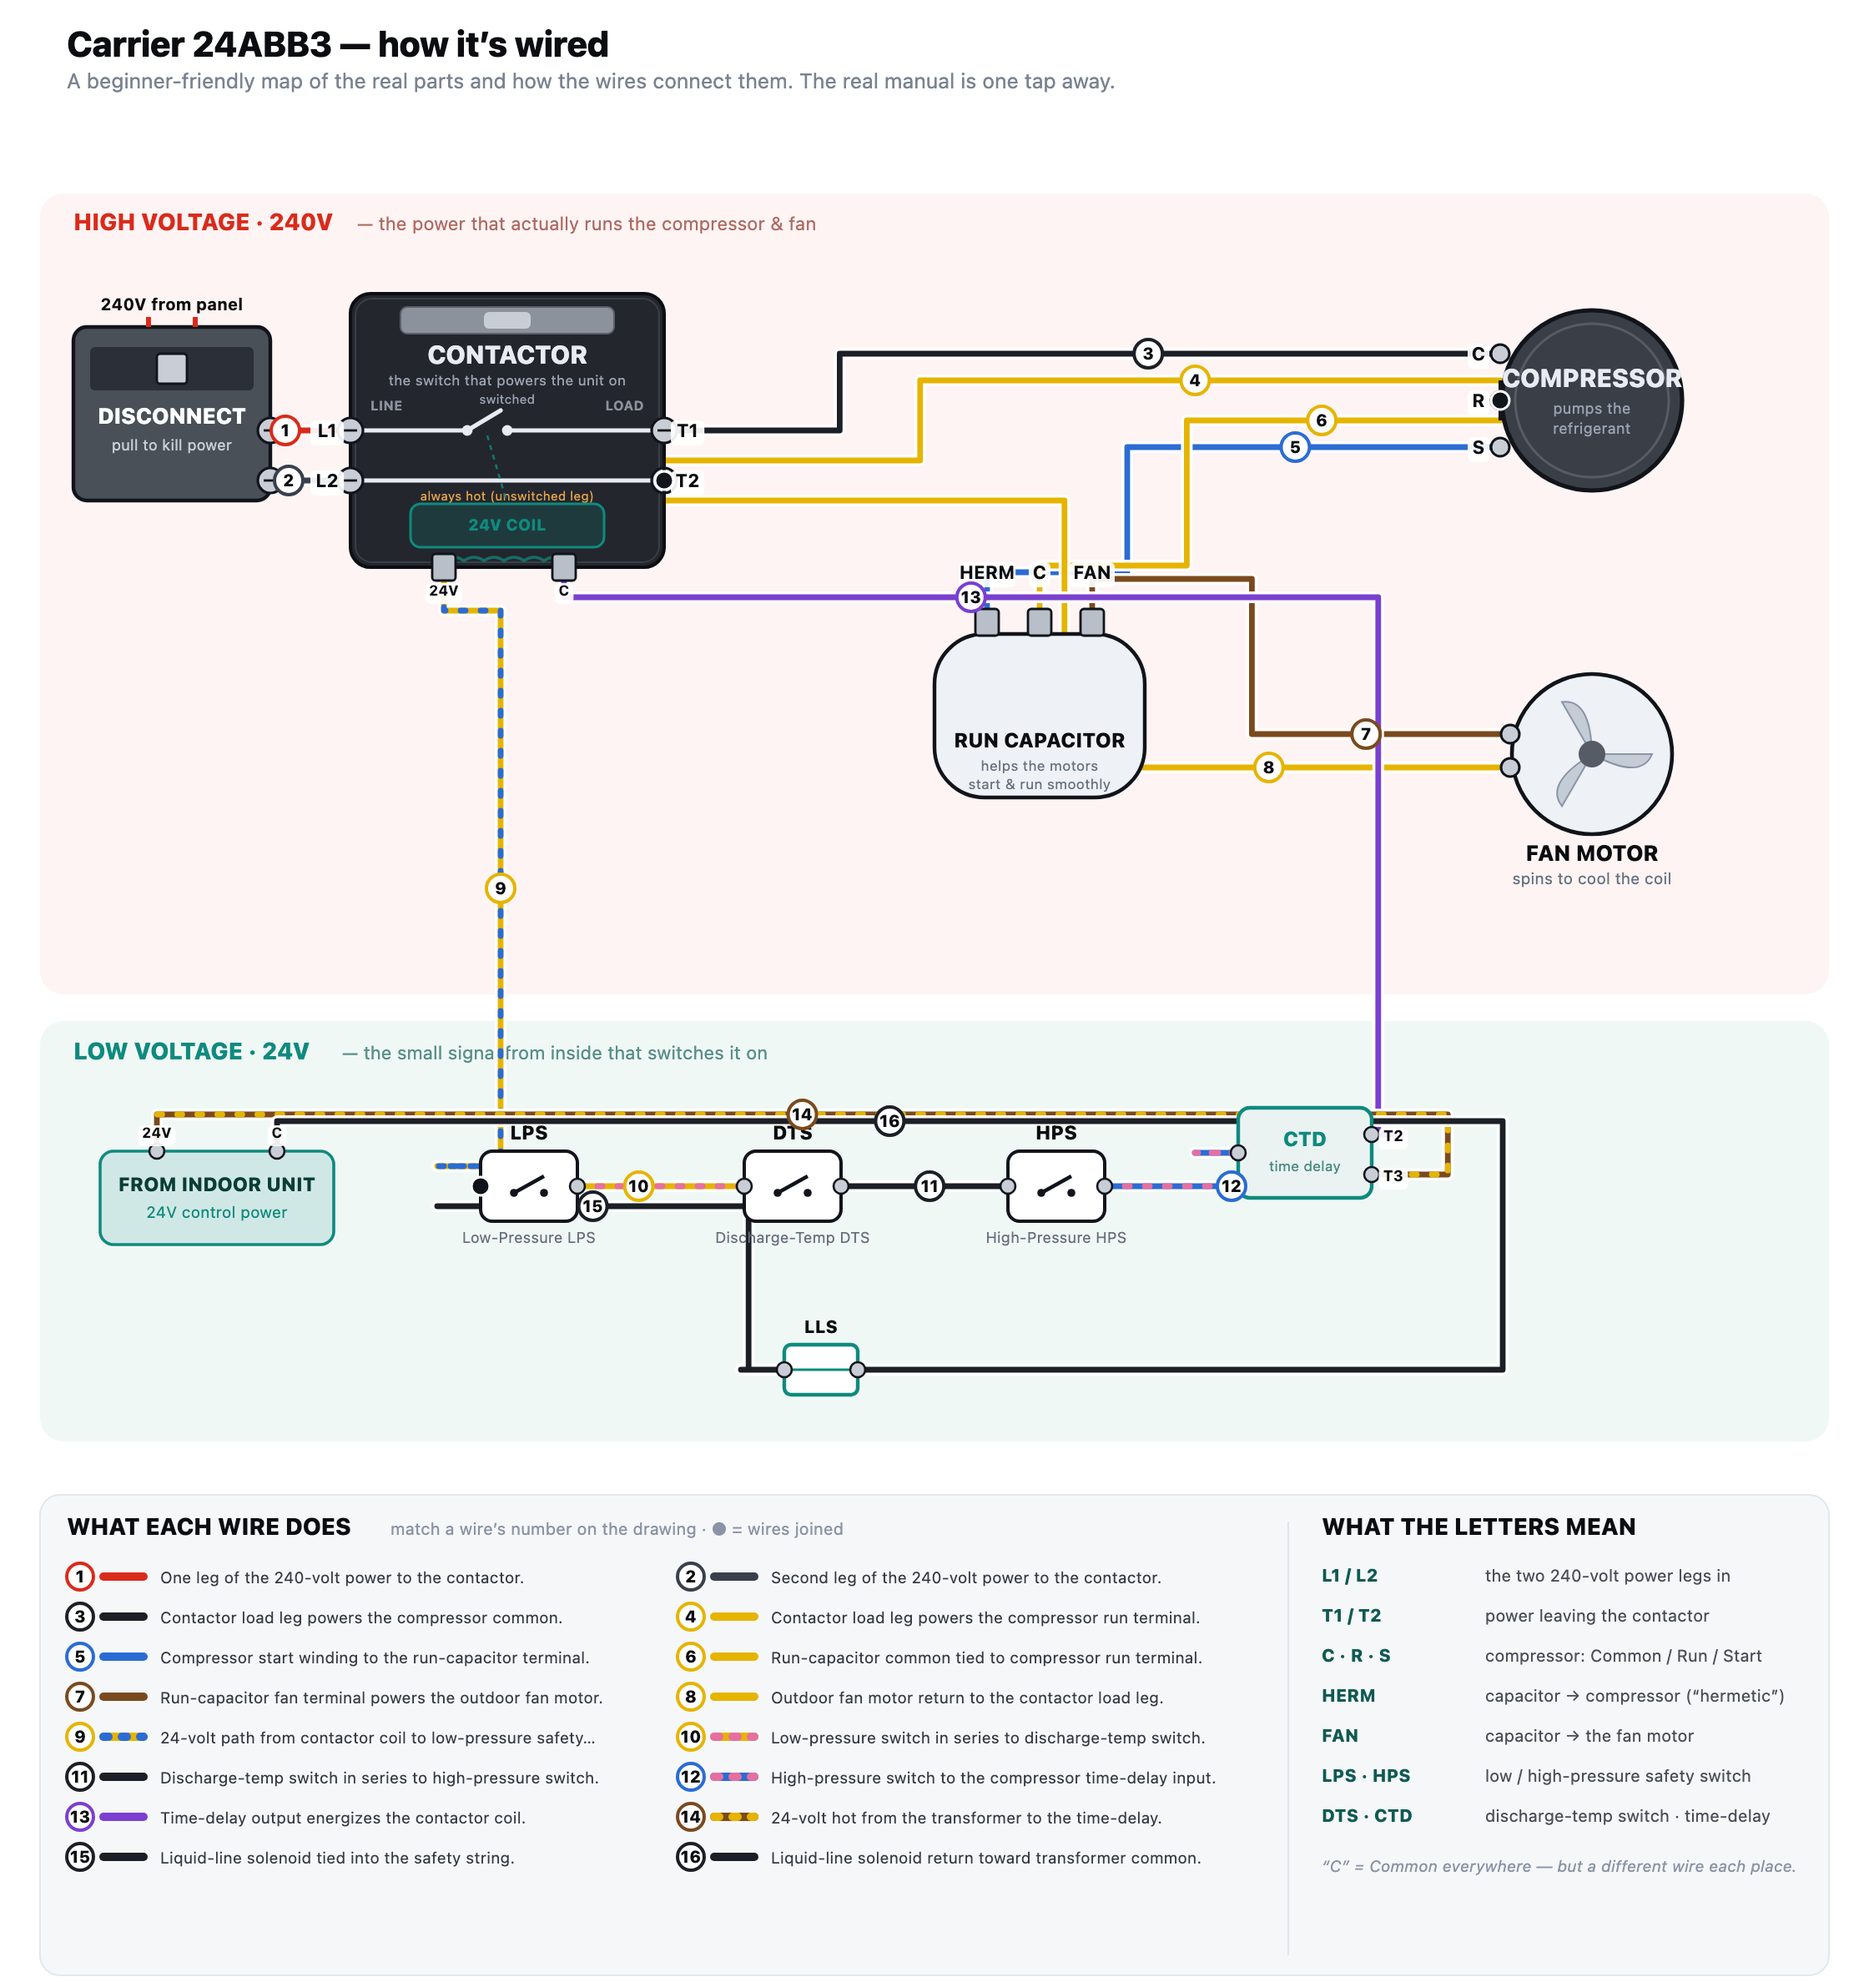
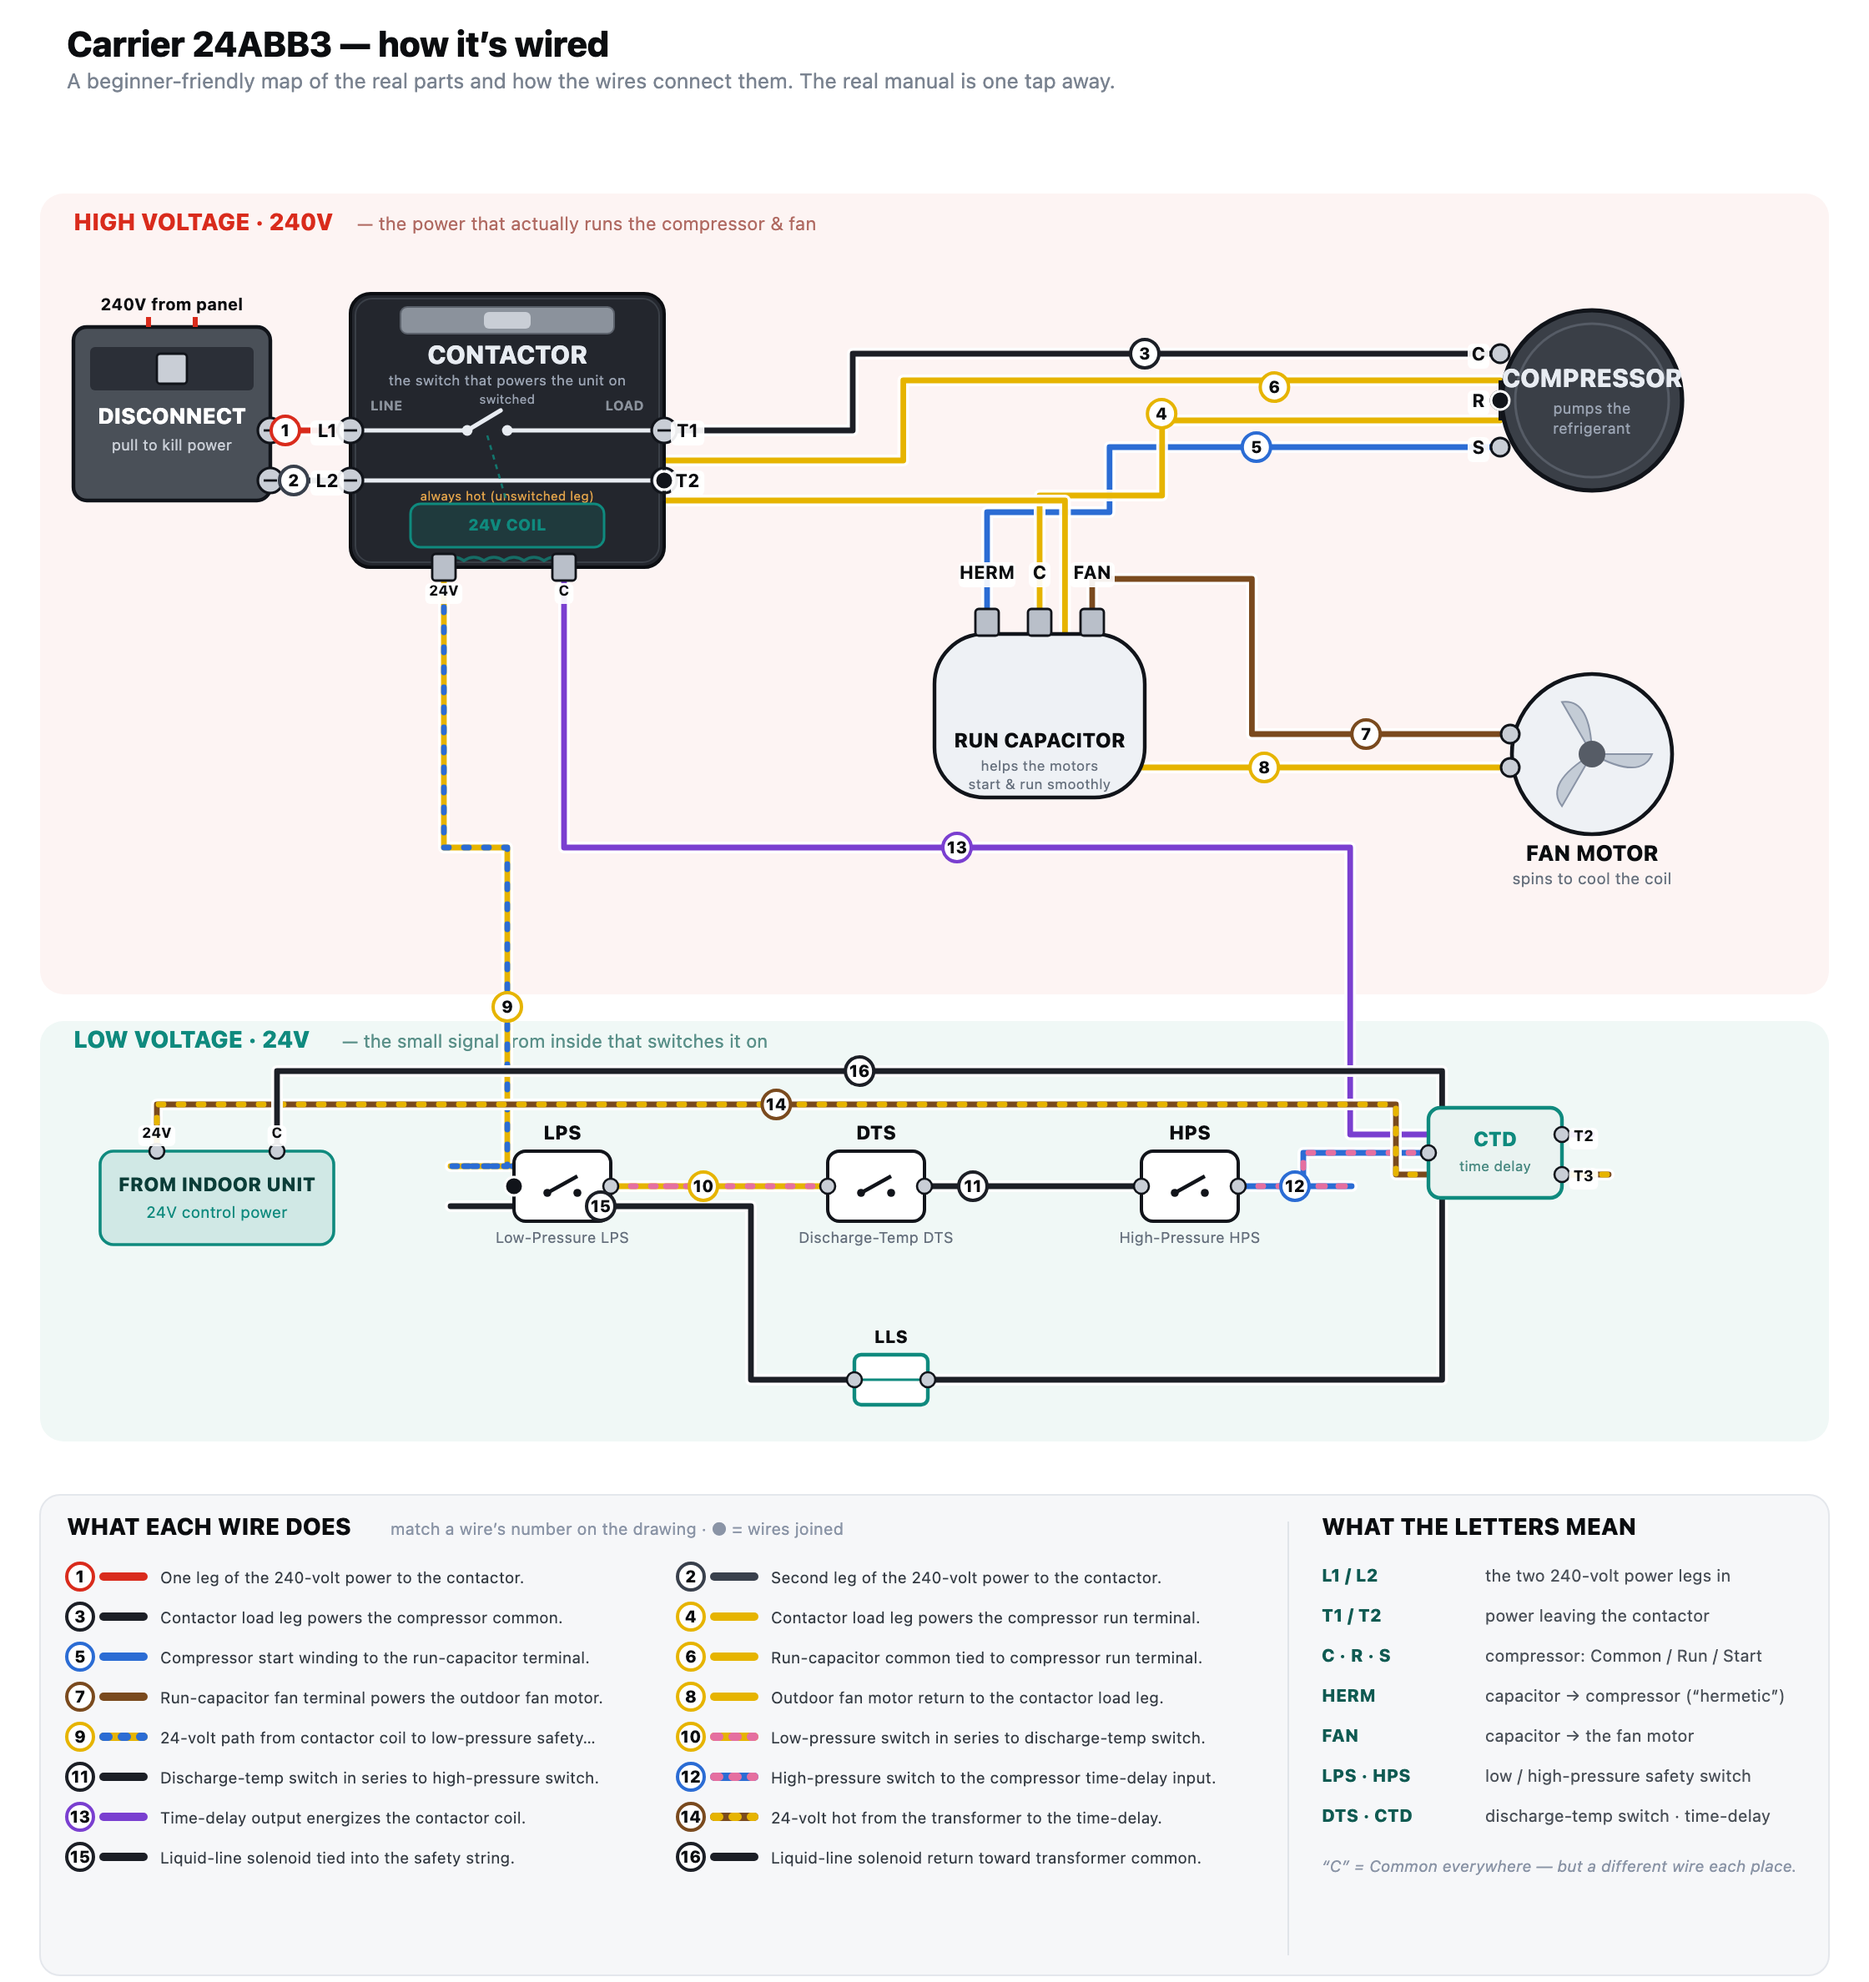
feat(redraw): low-volt traceability + cross-zone gutter routing (SHIP-READY)
Per Brandon (low-volt wires as traceable as high-volt, spread items out):
- more per-wire vertical spread; LOW-VOLT components spread across full width
  (LPS/DTS/HPS dx 188, CTD far right, LLS below) — no parts stacked
- cross-zone gutter routing: wires spanning HIGH↔LOW voltage drop into a clear
  lane (~y508) BELOW the parts, so the violet coil wire no longer knifes through
  the capacitor HERM/C/FAN terminals
- lifted LOW VOLTAGE heading off wire 16
Designer gate: SHIP-READY, LV reads as clean as HV, no regressions.
New files only — prod untouched.

diff --git a/scripts/redraw/render-illustration-svg.js b/scripts/redraw/render-illustration-svg.js
@@ -287,11 +287,11 @@ const ROLE_BODY={ contactor:pContactor, compressor:pCompressor, runcap:pRunCap, 
 
 const ZONES={
   power:{x:44,y:196}, contactor:{x:210,y:176}, runcap:{x:560,y:380}, compressor:{x:900,y:186}, fan:{x:906,y:404},
-  xfmr:{x:250,y:632}, source:{x:60,y:690}, tstat:{x:60,y:690}, ctd:{x:742,y:664}, heater:{x:640,y:196}, solenoid:{x:470,y:806},
+  xfmr:{x:250,y:632}, source:{x:60,y:690}, tstat:{x:60,y:690}, ctd:{x:856,y:664}, heater:{x:640,y:196}, solenoid:{x:512,y:812},
   startcap:{x:520,y:196}, startrelay:{x:648,y:196}, startsensor:{x:520,y:300},
 };
 const CHS_POS={ x:470, y:200 };            // crankcase heater switch — line zone, next to its heater
-const SWITCH_ROW={ startX:288, y:690, dx:158 };  // LPS / DTS / HPS row in the 24V control zone
+const SWITCH_ROW={ startX:308, y:690, dx:188 };  // LPS / DTS / HPS row in the 24V control zone
 
 function renderIllustrationSVG(netlist){
   if(!netlist||!Array.isArray(netlist.components)) throw new TypeError('netlist.components required');
@@ -381,7 +381,12 @@ function renderIllustrationSVG(netlist){
     const col=wireColor(w.color), stripe=wireStripe(w.color);
     const aPt=landing[`${i}_a`]||{x:w.a.x,y:w.a.y}, bPt=landing[`${i}_b`]||{x:w.b.x,y:w.b.y};
     const a={...aPt,dir:w.a.dir}, b={...bPt,dir:w.b.dir};
-    const aOut=stub(a,(i%3)*4), bOut=stub(b,(i%3)*4);
+    const so=(i%6)*10; let aOut=stub(a,so), bOut=stub(b,so);
+    // cross-zone wire (spans HIGH↔LOW voltage): drop its horizontal into a clear gutter
+    // BELOW the high-voltage parts so it never knifes through a terminal cluster.
+    if(Math.abs(a.y-b.y)>240){ const g=508+(i%4)*13;
+      if(a.dir==='down'&&a.y<g-24) aOut={x:a.x,y:g};
+      if(b.dir==='down'&&b.y<g-24) bOut={x:b.x,y:g}; }
     const lo=Math.min(aOut.x,bOut.x), hi=Math.max(aOut.x,bOut.x);
     let trunk = (hi-lo<40) ? (lo+hi)/2+((i%9)-4)*9 : lo+(hi-lo)*((i+1)/(N+1));
     while(usedTrunks.some(t=>Math.abs(t-trunk)<26)) trunk+=26; // wide lanes → wires clearly separated
@@ -427,8 +432,8 @@ function renderIllustrationSVG(netlist){
   // Two-voltage explainer — big, top-LEFT of each band (where the eye starts reading)
   H.push(`<text x="44" y="138" font-size="14" font-weight="800" fill="#d92b1c">HIGH VOLTAGE · 240V</text>`);
   H.push(`<text x="214" y="138" font-size="11" fill="#b06a62">— the power that actually runs the compressor &amp; fan</text>`);
-  H.push(`<text x="44" y="635" font-size="14" font-weight="800" fill="#0f8a7e">LOW VOLTAGE · 24V</text>`);
-  H.push(`<text x="205" y="635" font-size="11" fill="#5a9089">— the small signal from inside that switches it on</text>`);
+  H.push(`<text x="44" y="628" font-size="14" font-weight="800" fill="#0f8a7e">LOW VOLTAGE · 24V</text>`);
+  H.push(`<text x="205" y="628" font-size="11" fill="#5a9089">— the small signal from inside that switches it on</text>`);
   // ── BOTTOM REFERENCE PANEL: wire key (left) + letter glossary (right) ───────────
   const L=[]; const GY=HEIGHT-268;
   const panelH=288;
